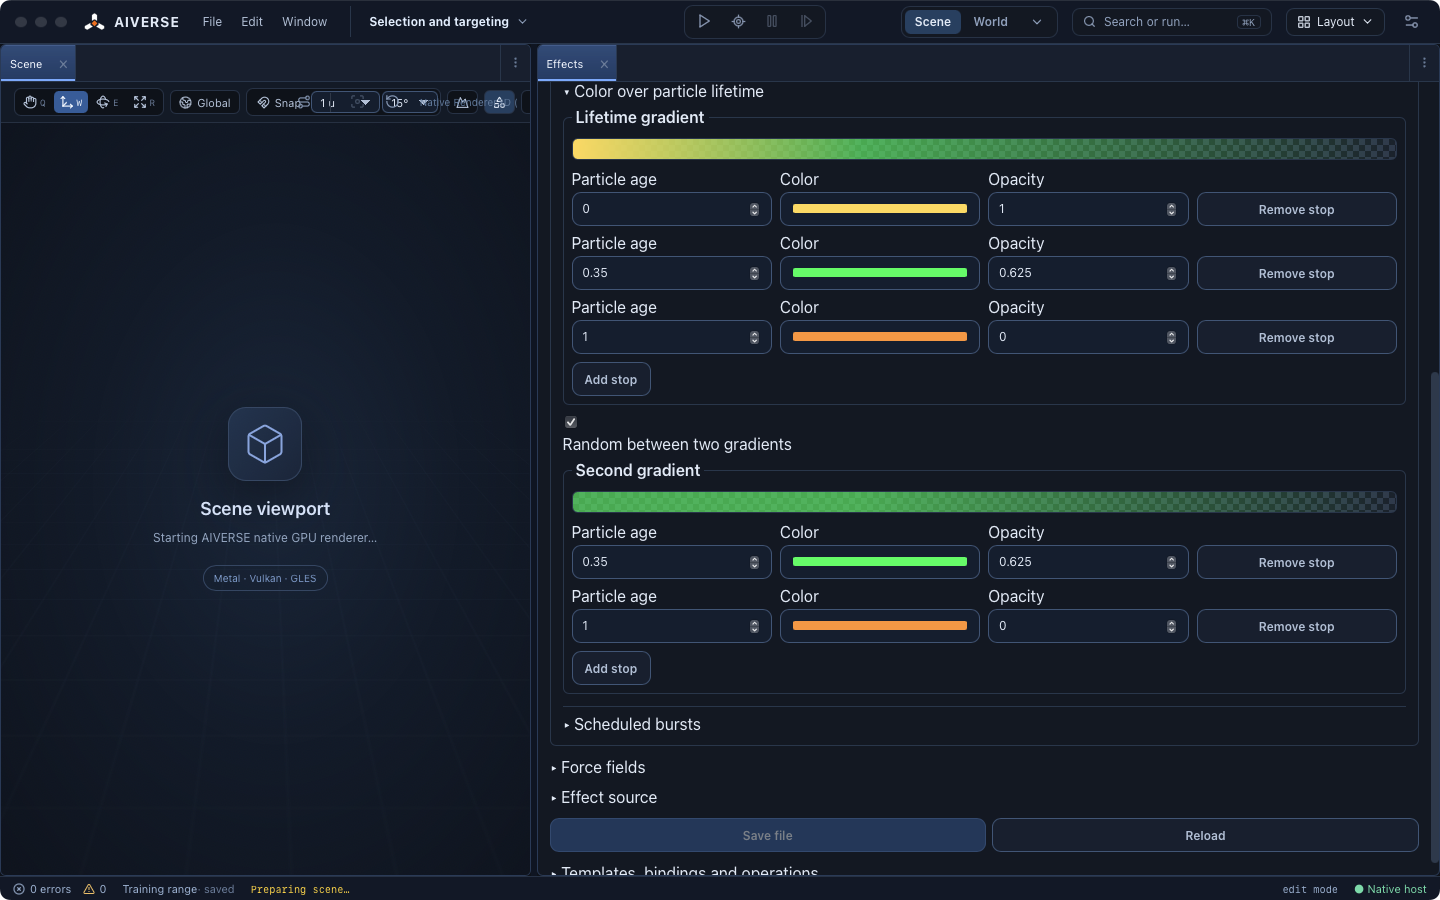
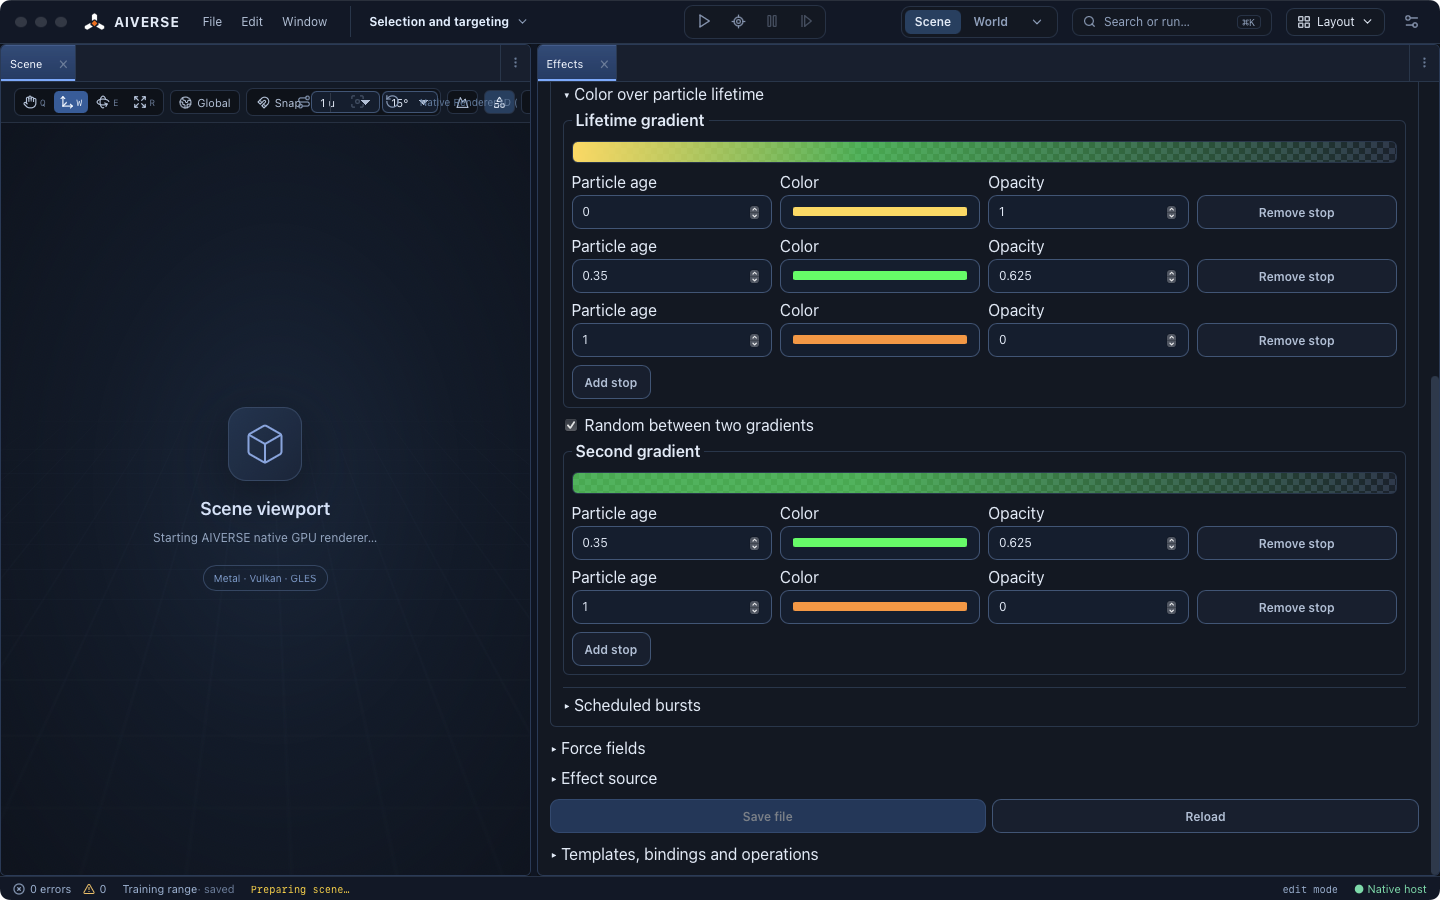
Record final Mac lifetime color panel capture

diff --git a/docs/agent-handoffs/studio-project-catalog-initial.md b/docs/agent-handoffs/studio-project-catalog-initial.md
@@ -90,3 +90,5 @@ Burst panel layout at 2ac3d48df verified by repeating both macOS desktop phases,
 Emitter geometry 74e11f931. apps/studio-web/src/panels/EffectShape.tsx and EffectVector.tsx. TypeScript, Vite, native web assets and 299 web tests passed. The packaged Mac Studio saved and reopened the authored effect and retained source comments. Point and donut produced gold-particle widths of 1 and 86 pixels under the same preview conditions. Locked desktop QA supplied measured viewport bounds. Evidence docs/evidence/studio-effect-emitter-geometry.json and docs/evidence/studio-project-catalog/emitter-{geometry,point,donut}.png. Next: remaining emitter modules including lifetime color, then pointer and Windows acceptance.
 
 Lifetime color 9ddd3a49e. apps/studio-web/src/panels/EffectLifetimeColor.tsx. Typecheck, Vite, 299 web tests and native assets passed. Packaged Mac Studio verified midpoint insertion, age, RGB and fractional alpha editing, second ramp, stop deletion, explicit save, app restart and draft-only disabling. Evidence docs/evidence/studio-effect-lifetime-color.json and docs/evidence/studio-project-catalog/lifetime-color.png. Align second-gradient toggle with label, then continue remaining particle modules.
+
+Lifetime gradient layout 11dcc3abd. apps/studio-web/src/panels/ToolPanel.css. Production Vite and native assets rebuilt. Repeated both Mac save/reopen phases and refreshed docs/evidence/studio-project-catalog/lifetime-color.png. Evidence docs/evidence/studio-effect-lifetime-color-layout.json. Next: particle color by speed and starting color modes.

diff --git a/docs/handoff/studio-html5/studio-only-editor.md b/docs/handoff/studio-html5/studio-only-editor.md
@@ -709,3 +709,5 @@ Emitter geometry 74e11f931. apps/studio-web/src/panels/EffectShape.tsx and Effec
 Effects lifetime color: edit RGBA stops, normalized particle age and optional second gradient in a visual inspector. Verify native save and reopen.
 
 Lifetime color 9ddd3a49e. apps/studio-web/src/panels/EffectLifetimeColor.tsx. Typecheck, Vite, 299 web tests and native assets passed. Packaged Mac Studio verified midpoint insertion, age, RGB and fractional alpha editing, second ramp, stop deletion, explicit save, app restart and draft-only disabling. Evidence docs/evidence/studio-effect-lifetime-color.json and docs/evidence/studio-project-catalog/lifetime-color.png. Align second-gradient toggle with label, then continue remaining particle modules.
+
+Lifetime gradient layout 11dcc3abd. apps/studio-web/src/panels/ToolPanel.css. Production Vite and native assets rebuilt. Repeated both Mac save/reopen phases and refreshed docs/evidence/studio-project-catalog/lifetime-color.png. Evidence docs/evidence/studio-effect-lifetime-color-layout.json. Next: particle color by speed and starting color modes.
